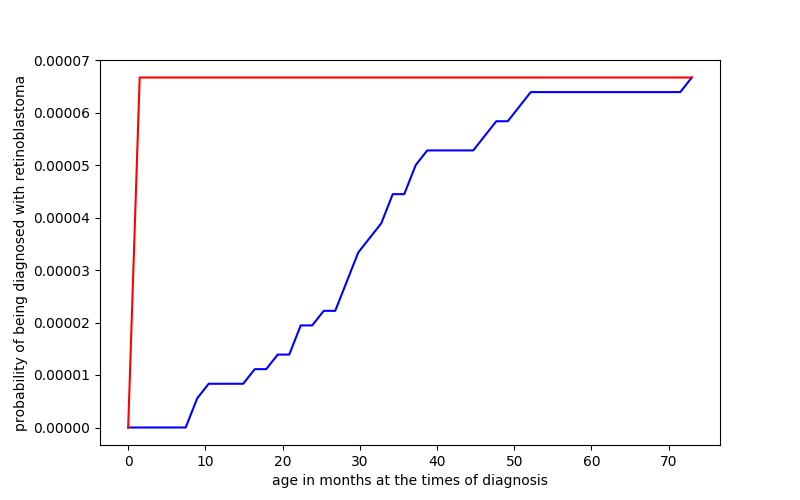
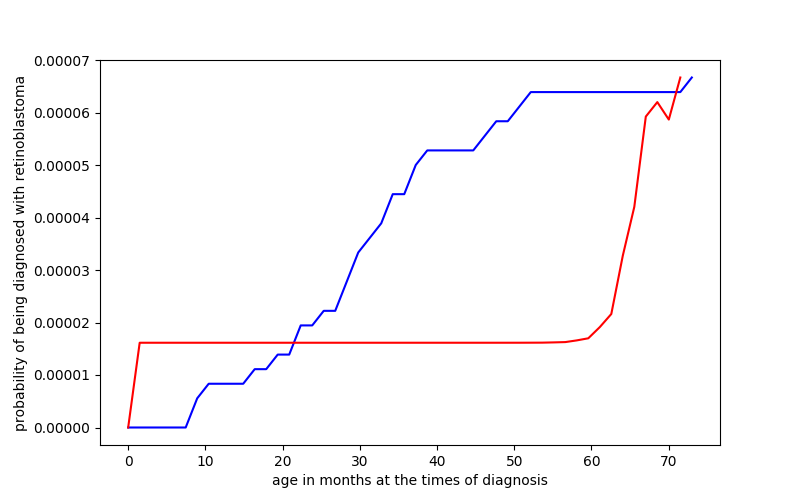
first working minimization for 1(ii)

Changed region(s): [[0.1562, 0.15, 0.875, 0.84], [0.7812, 0.24, 0.8125, 0.48], [0.75, 0.51, 0.7812, 0.66]]

diff --git a/asgn1.py b/asgn1.py
@@ -15,23 +15,34 @@ def assignment_1_i():
 	loss = lambda p: integrate.quad(lambda t: (ecdf(t)-fit(t, p))**2, 0, 73)[0]
 	p = op.minimize_scalar(loss, bounds=(1e-10, 1e-2), method='bounded').x
 	print('Best fit p = {}, relative error = {}%\n{}'.format(p, 100*loss(p)**0.5/ecdf_norm, div))
-	fit_plot(ecdf, lambda t: fit(t, p), [0, 73], 'age in months at the time of diagnosis',\
-	 'probability of being diagnosed with retinoblastoma', 'single random factor')
+	#fit_plot(ecdf, lambda t: fit(t, p), [0, 73], 'age in months at the time of diagnosis',\
+	# 'probability of being diagnosed with retinoblastoma', 'single random factor')
 
 def assignment_1_ii():
 	global p1, p2
 	print('Problem 1(ii)\n{}'.format(div))
-	def fit(t, p):
-		_p1, _p2 = p
-		p1_, p2_ = 1-_p1, 1-_p2
-		r = p1_/p2_
-		return (1- (p1_**t + p2_**t*_p1*(r**t - 1)/(_p2-_p1))**(2*cell_count))*rb_rate
-	loss = lambda p: integrate.quad(lambda t: (ecdf(t)-fit(t, p))**2, 0, 36)[0]
-	p1, p2 = op.minimize(loss, [1e-7, 1e-8]).x
-	print('p1 = {}, p2 = {}, relative error = {}%\n{}'\
-		.format(p1, p2, 100*loss([p1, p2])**0.5/ecdf_norm, div))
-	fit_plot(ecdf, lambda t: fit(t, [p1, p2]), [0, 73], 'age in months at the times of diagnosis',\
-	 'probability of being diagnosed with retinoblastoma', 'two random factors')
+	
+	def model(t, p):
+		i, T =  1, int(t)
+		p1, p2 = p
+		total = (1-p1)**T
+		while i <= T:
+			total = total + p1*(1-p1)**(i-1)*(1-p2)**(T-i)
+			i = i+1
+		return (1 - total**(2*cell_count))*rb_rate
+
+	def residual(p):
+		return sum([(model(t, p)-ecdf(t))**2 for t in range(36)]) 
+	fig, ax = plt.subplots(figsize=(8,5))
+	x = np.linspace(0,73, 20)
+	for i in range(10):
+		p = op.minimize(residual, [i*1e-7, 1e-6]).x
+		print(p)
+		y = [model(t, p) for t in x]
+		#ax.plot(x, y)
+	#plt.show()
+	fit_plot(ecdf, lambda t: model(t, p), [0, 73], 'age in months at the time of diagnosis',\
+	 'probability of being diagnosed with retinoblastoma', 'single random factor')
 
 def assignment_1_iii():
 	print('Problem 1(iii)\n{}'.format(div))
@@ -39,8 +50,8 @@ def assignment_1_iii():
 		_p2, t = p2, int(t)
 		total = (1-p1)**t
 		for i in range(1, t):
-			#if i > 36:
-				#_p2 = p2*np.exp(-a*(i-36))	
+			if i > 36:
+				_p2 = p2*np.exp(-a*(i-36))	
 			total = total + p1*(1-p1)**(i-1)*(1-_p2)**(t-i)
 		return (1 - total**(2*cell_count))*rb_rate
 	loss = lambda a: sum([(ecdf(t)-fit(t, a))**2 for t in range(1, 73)])

diff --git a/cancer.py b/cancer.py
@@ -24,8 +24,10 @@ def read_data(file):
 def fit_plot(obs, fit, limits, xlabel, ylabel, img_name):
 	fig, ax = plt.subplots(figsize=(8,5))
 	x = np.linspace(*limits)
-	ax.plot(x, obs(x), color = 'blue')
-	ax.plot(x, fit(x), color = 'red')
+	y = [obs(t) for t in x]
+	ax.plot(x, y, color = 'blue')
+	y = [fit(t) for t in x]
+	ax.plot(x, y, color = 'red')
 	ax.set_xlabel(xlabel)
 	ax.set_ylabel(ylabel)
 	plt.savefig(img_name + '.png')

diff --git a/main.py b/main.py
@@ -2,5 +2,5 @@ import asgn1, asgn2
 
 asgn1.assignment_1_i()
 asgn1.assignment_1_ii()
-asgn1.assignment_1_iii()
-asgn1.assignment_1_iv()
+#asgn1.assignment_1_iii()
+#asgn1.assignment_1_iv()
